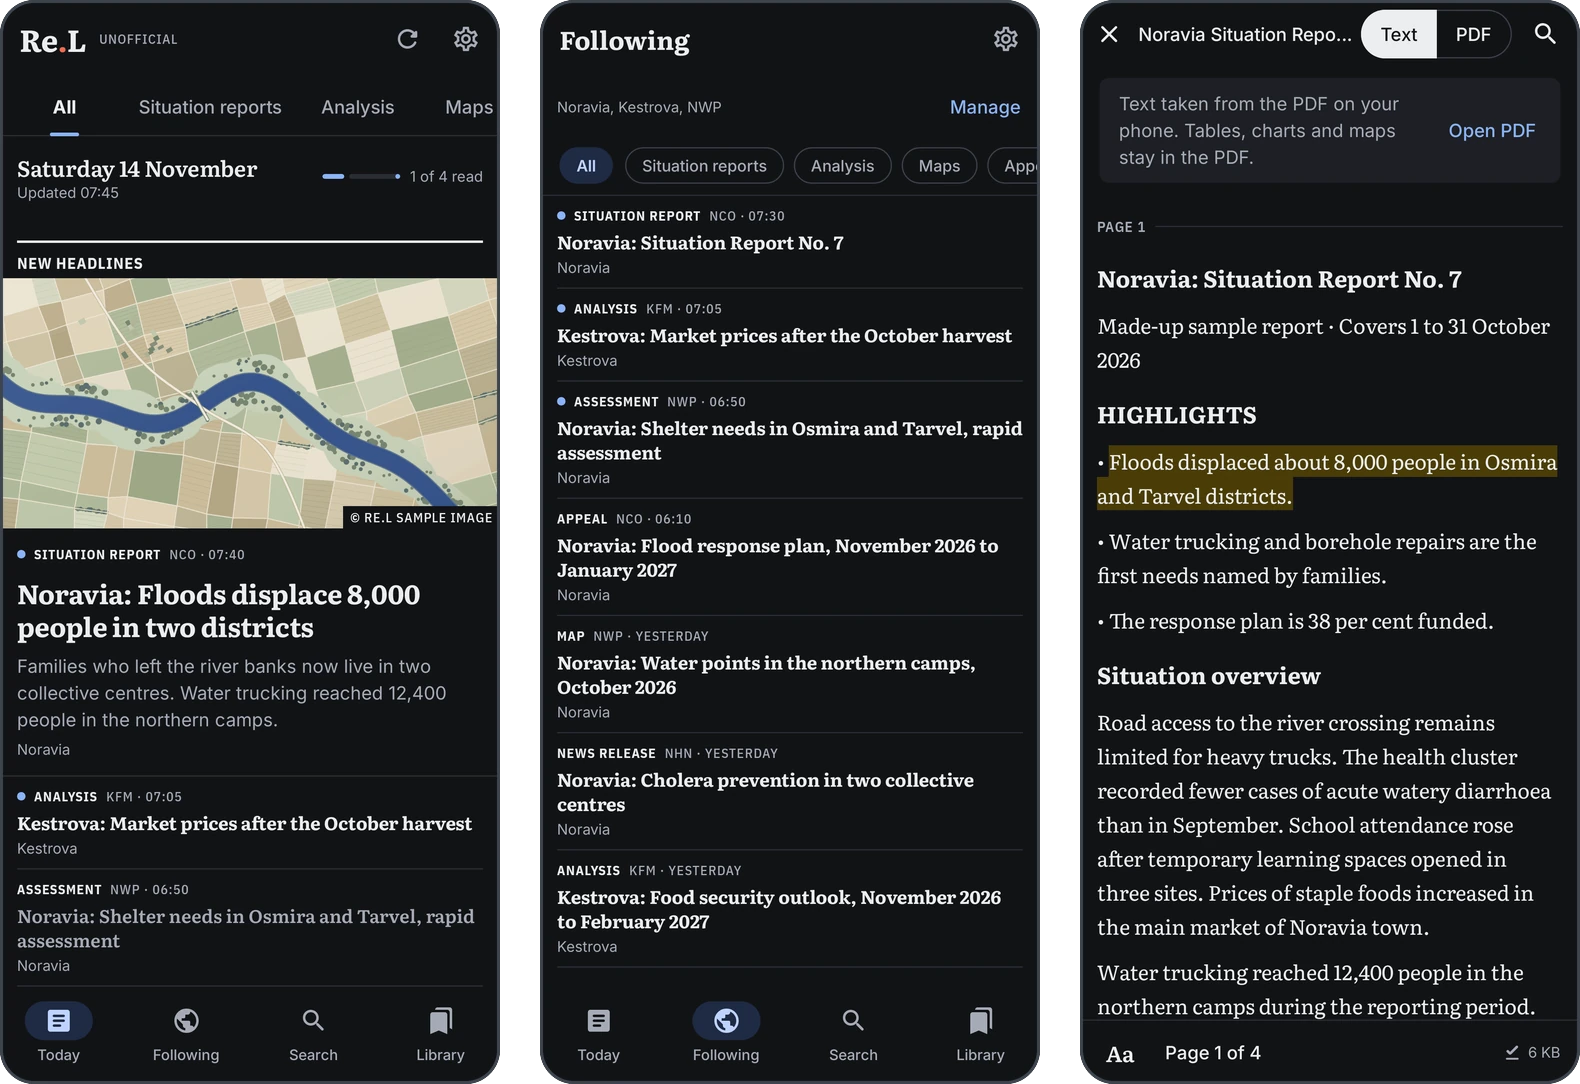
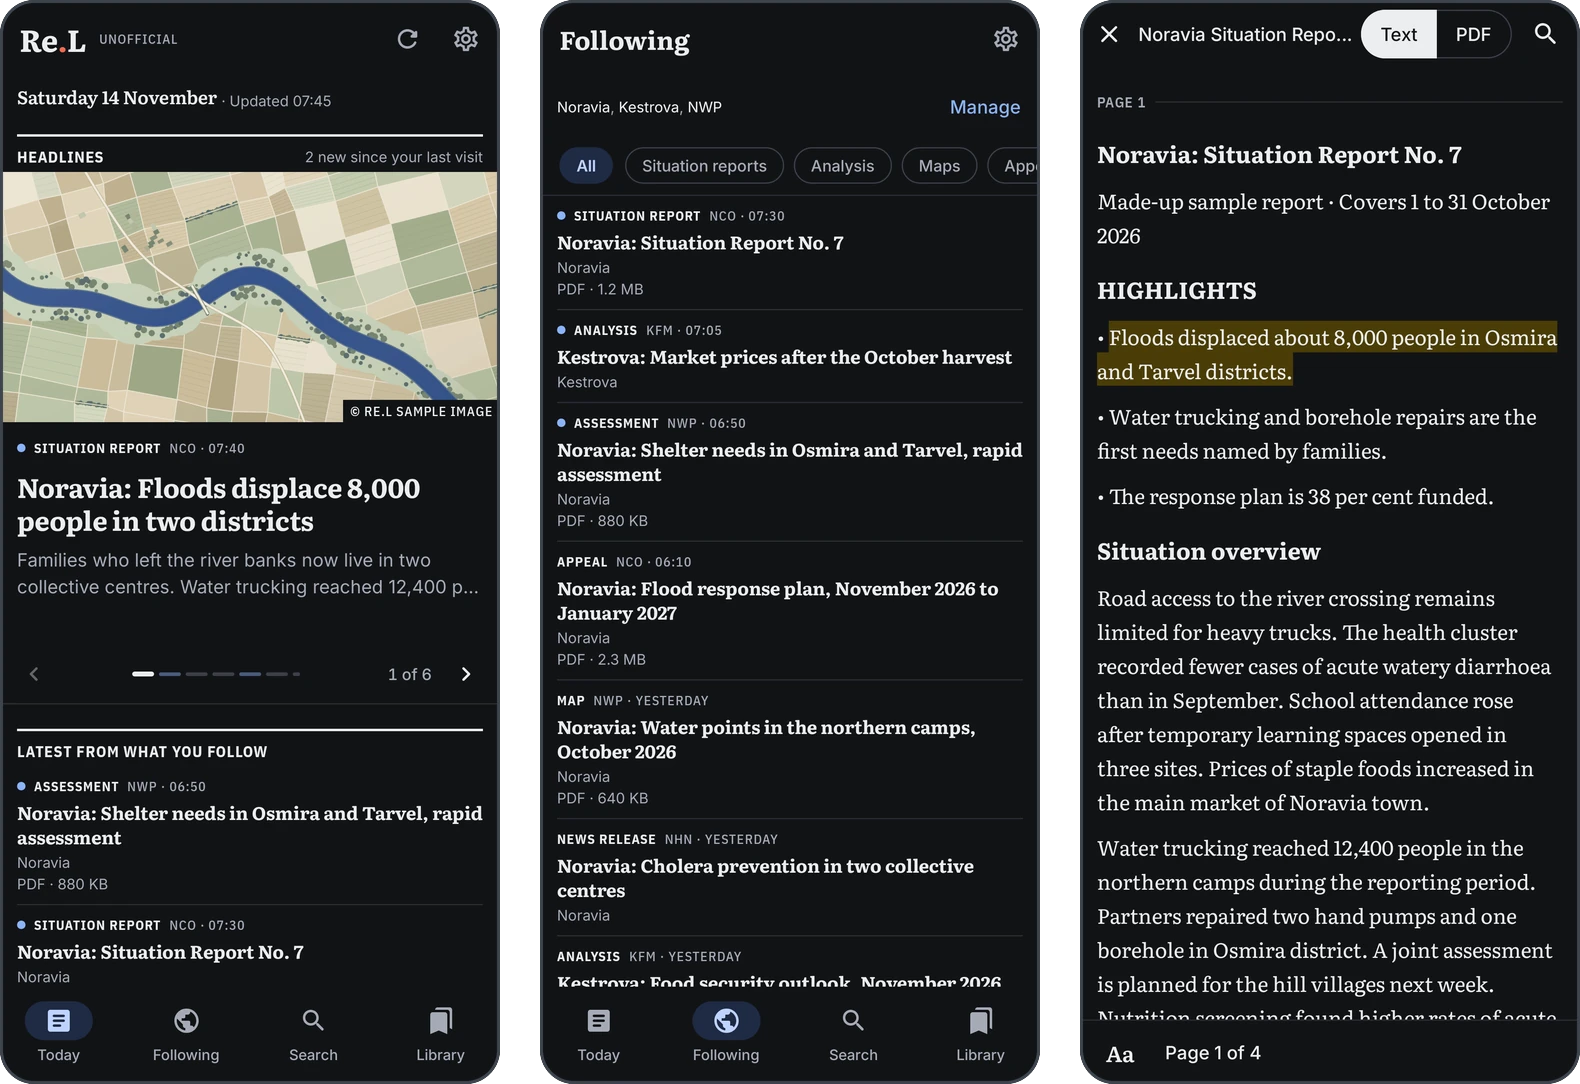
Re.L 0.4.0: version, What's new, notes, screenshots (#16)
Re.L 0.4.0: version, What's new, release notes, redrawn screenshots. Approved by the founder.

diff --git a/app/src/main/kotlin/io/relais/app/ui/LibraryScreen.kt b/app/src/main/kotlin/io/relais/app/ui/LibraryScreen.kt
@@ -500,7 +500,7 @@ internal fun LibraryFilterSheet(state: LibraryState, onFacet: (LibraryFacet) -> 
     val cs = MaterialTheme.colorScheme
     Column(Modifier.fillMaxWidth().padding(bottom = Space.xl).verticalScroll(rememberScrollState())) {
         Row(Modifier.fillMaxWidth().padding(horizontal = Space.screen), verticalAlignment = Alignment.CenterVertically) {
-            Text(stringResource(R.string.results_filters), style = MaterialTheme.typography.titleMedium, modifier = Modifier.weight(1f))
+            Text(stringResource(R.string.results_filters), style = MaterialTheme.typography.titleSmall, modifier = Modifier.weight(1f))
             TextButton(onClick = onClear) { Text(stringResource(R.string.filter_clear_all)) }
         }
         state.view.facets().forEach { facet ->
@@ -510,19 +510,24 @@ internal fun LibraryFilterSheet(state: LibraryState, onFacet: (LibraryFacet) -> 
                     .testTag("library_facet_" + facet.name.lowercase()),
                 verticalAlignment = Alignment.CenterVertically,
             ) {
-                Text(stringResource(FACET_LABELS.getValue(facet)), style = MaterialTheme.typography.bodyLarge, modifier = Modifier.weight(1f))
-                if (selected.isNotEmpty()) {
-                    Text(selected.sorted().joinToString(", "), style = MaterialTheme.typography.bodySmall, color = cs.primary, maxLines = 1, overflow = TextOverflow.Ellipsis, modifier = Modifier.weight(1f, fill = false))
-                }
+                // The label, then the values chosen, then the arrow, always at the right edge.
+                Text(stringResource(FACET_LABELS.getValue(facet)), style = MaterialTheme.typography.bodyLarge, modifier = Modifier.padding(end = Space.s))
+                Text(
+                    selected.sorted().joinToString(", "),
+                    style = MaterialTheme.typography.bodySmall,
+                    color = cs.primary,
+                    maxLines = 1,
+                    overflow = TextOverflow.Ellipsis,
+                    textAlign = androidx.compose.ui.text.style.TextAlign.End,
+                    modifier = Modifier.weight(1f),
+                )
                 Icon(Icons.AutoMirrored.Rounded.KeyboardArrowRight, contentDescription = null, tint = cs.onSurfaceVariant)
             }
         }
         if (state.view != LibraryView.HIGHLIGHTS) {
-            Text(
-                stringResource(R.string.library_group_by, stringResource(GROUP_LABELS.getValue(state.groupBy))),
-                style = MaterialTheme.typography.titleSmall,
-                modifier = Modifier.padding(start = Space.screen, end = Space.screen, top = Space.l, bottom = Space.s),
-            )
+            // As in the country page's sheet: condensed capitals under a hairline. The pills
+            // already say which grouping is on.
+            Box(Modifier.padding(horizontal = Space.screen).padding(bottom = Space.s)) { SheetGroup(stringResource(R.string.library_group_title)) }
             FlowRow(Modifier.padding(horizontal = Space.screen), horizontalArrangement = Arrangement.spacedBy(8.dp)) {
                 GroupBy.entries.forEach { g ->
                     FilterChip(

diff --git a/app/src/main/kotlin/io/relais/app/ui/ReportScreen.kt b/app/src/main/kotlin/io/relais/app/ui/ReportScreen.kt
@@ -980,11 +980,14 @@ internal fun FileLines(
             val onPhone = downloaded.containsKey(file.url)
             val tooLarge = !onPhone && (PdfDownloader.tooLarge(file.size) || downloads[file.url] is DownloadState.TooLarge)
             val name = if (report.files.size == 1) null else file.description?.removePrefix("- ")?.ifBlank { null } ?: file.filename
-            val facts = listOfNotNull(
-                name ?: type,
-                file.pages?.takeIf { it > 0 }?.let { stringResource(R.string.report_pages, it.toInt()) },
-                Display.size(file.size),
-            ).joinToString(" · ")
+            // One PDF: the line of the lists (pdf/PdfFacts.kt), with the pages read on the phone
+            // when the API gives none. Several files: each with its name.
+            val facts = (if (report.files.size == 1 && file.url == report.pdf?.url) io.relais.app.pdf.pdfFactsText(report) else null)
+                ?: listOfNotNull(
+                    name ?: type,
+                    file.pages?.takeIf { it > 0 }?.let { stringResource(R.string.report_pages, it.toInt()) },
+                    Display.size(file.size),
+                ).joinToString(" · ")
             Row(Modifier.fillMaxWidth().heightIn(min = 48.dp).testTag("file_row"), verticalAlignment = Alignment.CenterVertically) {
                 Icon(Icons.Rounded.PictureAsPdf, contentDescription = null, tint = cs.onSurfaceVariant, modifier = Modifier.size(18.dp))
                 Column(Modifier.weight(1f).padding(horizontal = Space.s)) {

diff --git a/app/src/main/kotlin/io/relais/app/ui/WhatsNew.kt b/app/src/main/kotlin/io/relais/app/ui/WhatsNew.kt
@@ -50,6 +50,17 @@ object WhatsNew {
                 Line(R.string.whats_new_03_lead_4, R.string.whats_new_03_text_4),
             ),
         ),
+        Release(
+            versionCode = 11,
+            label = "0.4",
+            lines = listOf(
+                Line(R.string.whats_new_04_lead_1, R.string.whats_new_04_text_1),
+                Line(R.string.whats_new_04_lead_2, R.string.whats_new_04_text_2),
+                Line(R.string.whats_new_04_lead_3, R.string.whats_new_04_text_3),
+                Line(R.string.whats_new_04_lead_4, R.string.whats_new_04_text_4),
+                Line(R.string.whats_new_04_lead_5, R.string.whats_new_04_text_5),
+            ),
+        ),
     )
 
     /** The lines of exactly this version, for the sheet after an update; null: no sheet. */

diff --git a/app/src/test/kotlin/io/relais/app/ScreenshotTest.kt b/app/src/test/kotlin/io/relais/app/ScreenshotTest.kt
@@ -130,7 +130,8 @@ class ScreenshotTest {
     @Test
     fun todayPileEndMore() {
         val headlines = reports("headlines.json")
-        shoot("today-pile-end-more") { TodayPile(headlines, readIds = headlines.take(2).map { it.id }.toSet(), page = headlines.size) }
+        // The first headline is new and not read: its line ends with the blue dot.
+        shoot("today-pile-end-more") { TodayPile(headlines, readIds = setOf(headlines[1].id, headlines[2].id), page = headlines.size) }
     }
 
     /** The end of a report opened from the pile: "Headline 2 of 6", Next, Previous headline. */

diff --git a/app/src/main/kotlin/io/relais/app/ui/CountryScreens.kt b/app/src/main/kotlin/io/relais/app/ui/CountryScreens.kt
@@ -1151,7 +1151,7 @@ private fun CountryFilterSheet(name: String, state: CountryState, onApply: (Coun
 
 /** Title of a group of the sheet: condensed capitals in ink 2, under a 1 dp rule. */
 @Composable
-private fun SheetGroup(title: String) {
+internal fun SheetGroup(title: String) {
     Column(Modifier.padding(top = 8.dp)) {
         HorizontalDivider(thickness = Hairline, color = MaterialTheme.colorScheme.outlineVariant)
         Text(

diff --git a/release-notes/v0.4.0.md b/release-notes/v0.4.0.md
@@ -1,0 +1,52 @@
+Re.L 0.4.0, an unofficial Android app for reading ReliefWeb. Not affiliated with ReliefWeb or OCHA. Download the `.apk` file under **Assets**, below.
+
+Install it over your current version. Your saved reports, highlights, history and follows stay on your phone. If you uninstall Re.L first, they are deleted.
+
+## Today
+
+- **Leaf through the headlines.** ReliefWeb's headlines now come as a pile of cards, newest first. Swipe, or tap ‹ and ›. "3 of 6" under the card says where you are.
+- **It opens where you stopped.** The pile starts on the first headline you haven't read.
+- **One photo at a time.** Only the card on screen loads its photo. On Wi-Fi, the next card's photo loads too.
+- **The end of the pile** lists this week's headlines, up to 6, with the ones you have read in grey. Below them comes "Older headlines", or "3 more this week" when the week has more than 6.
+- **Older headlines.** With an appname, this opens a search of all ReliefWeb headlines by date. Without one, it lists the headlines kept on your phone, because ReliefWeb's feed gives only the 20 latest.
+- **A shorter page.** After the headlines come the latest from what you follow, Continue reading, the latest reports on ReliefWeb, Most read on ReliefWeb and Most reports this week.
+
+## Reading a headline
+
+- A headline opened from Today ends with the title of the next one. Tap Next to read on, or Previous headline to go back.
+- Back returns to Today, on the card of the last headline you read.
+
+## What moved, and where to find it
+
+- **The tabs on Today.** Situation reports, Analysis, Maps, News and Appeals are filters in Following and on each country page.
+- **Your countries on Today.** Their new reports still show on Today under "Latest from what you follow", and all of them are in Following. Tap a country's name at the top of Following to open its page.
+- **New disasters this week.** Following > Manage > Follow a crisis lists the disasters ReliefWeb tracks as alert or ongoing.
+- **The "4 of 9 read" counter.** The strokes under the cards show which headlines you have read, and the end of the pile says how many are left.
+- **The highlighter button.** Open the report's menu, top right, and tap Highlight.
+- **The "Key documents" filter.** Pick Situation reports, Analysis or Appeals instead.
+- **Countries in Settings.** Following > Manage has your countries, crises and organizations.
+- **The PDF size at the bottom of the text view.** It now shows under the report's dates, with the number of pages.
+
+## Less on screen
+
+- **Organization page.** Three lines at the top: the name; how often it posts and when it last did; its type, where it is based and its website. What it mostly covers and ReliefWeb's description fold under "About" and its name, such as "About ACAPS".
+- **Top of a report.** Four icons. Save is a bookmark, filled once the report is saved. When the report has its own text, its PDF is one line under the dates, such as "PDF · 22 pages · 352 KB".
+- **PDFs as text.** The banner at the top shows only the first time.
+- **Library.** The search field shows from 10 items, or as soon as a PDF is on your phone. The filter icon shows from 10 items and opens a sheet with the filters and Group by.
+- **Following.** Tap a name in the line of what you follow to open its page. "+3" opens Manage.
+- **Bottom bar.** The tab you came from stays lit. Open a country from Following, and Following stays lit.
+
+## Settings
+
+- **Changes apply at once.** Type your appname in Settings, then tap Save or the keyboard's enter key. Re.L checks it and confirms.
+- **Keep history for.** A shorter choice first tells you how many reports it will remove, then removes them right away.
+- **Daily summary.** The hours show only when the summary is on.
+
+## PDFs
+
+- **Ready offline.** On Wi-Fi, Re.L downloads the PDFs of recent reports on what you follow, and reads their text, so they open without a connection. It waits for enough battery and storage, and skips files over 25 MB. It's on by default. Turn it off in Settings > Storage > "Download PDFs on Wi-Fi".
+- **Choose the space.** Pick 200 MB, 300 MB, 500 MB or 1 GB for PDFs you haven't saved. 300 MB is the default. When it's full, Re.L deletes the oldest first. PDFs of saved and highlighted reports stay. The Wi-Fi downloads fill 80% of this space at most.
+- **Pages and size in lists.** A document with a PDF shows "PDF · 12 pages · 2.3 MB" under its country, when ReliefWeb gives the numbers.
+- **When Android clears space.** If Android deletes a PDF to free space, Re.L forgets it too and downloads it again when you open it. Your highlights in it stay.
+
+Re.L is free software under the GNU General Public License, version 3 or later. An idea or a problem? [Open an issue](https://github.com/13w13/relief-reader/issues).
